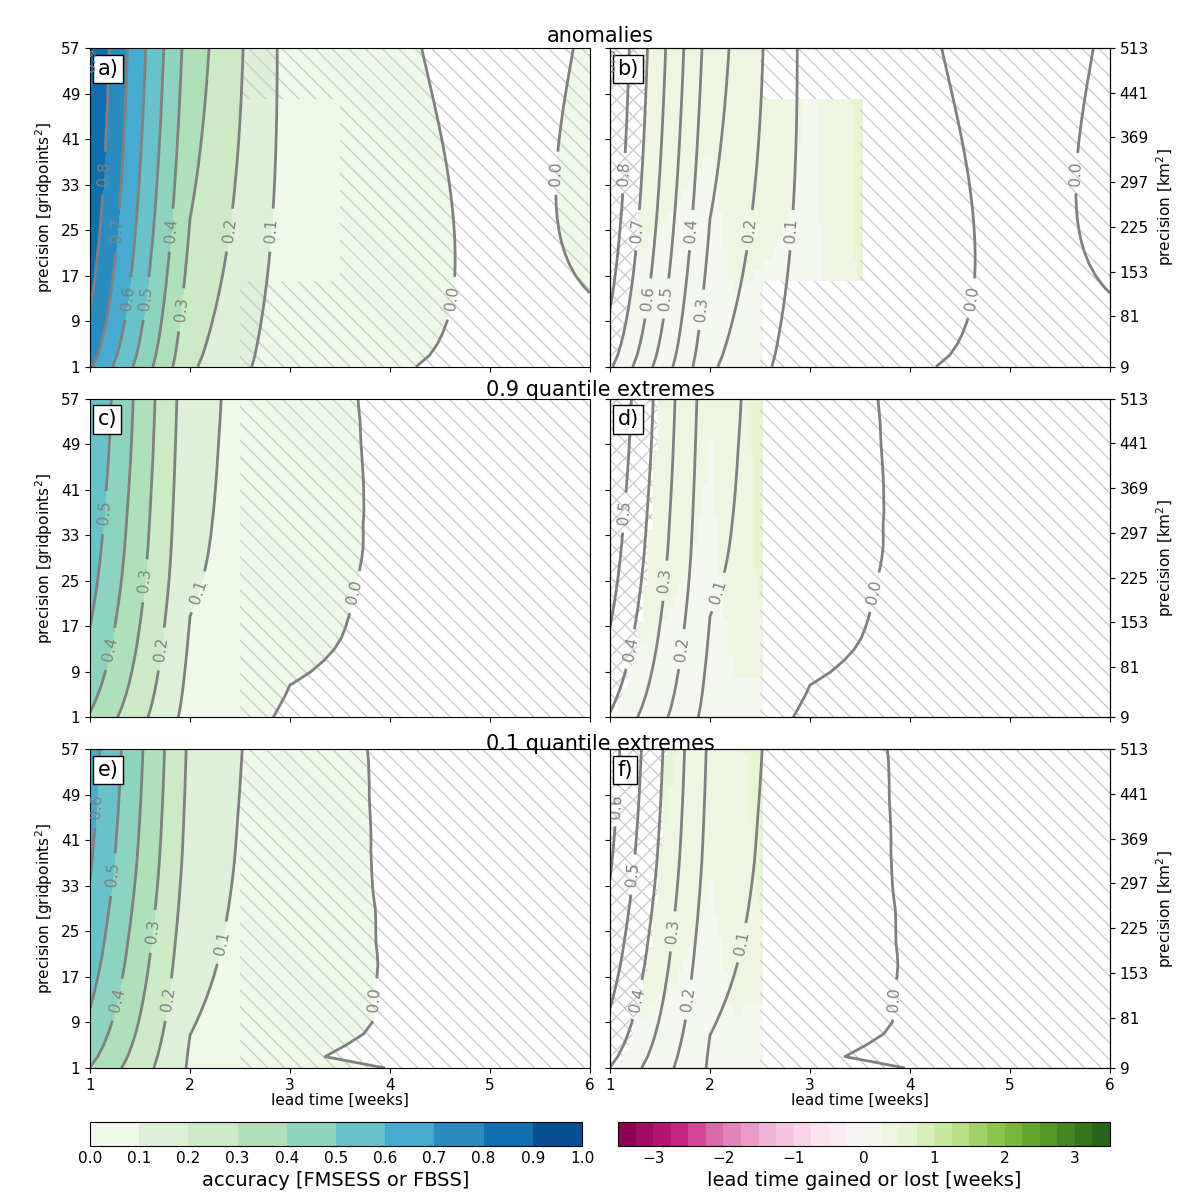
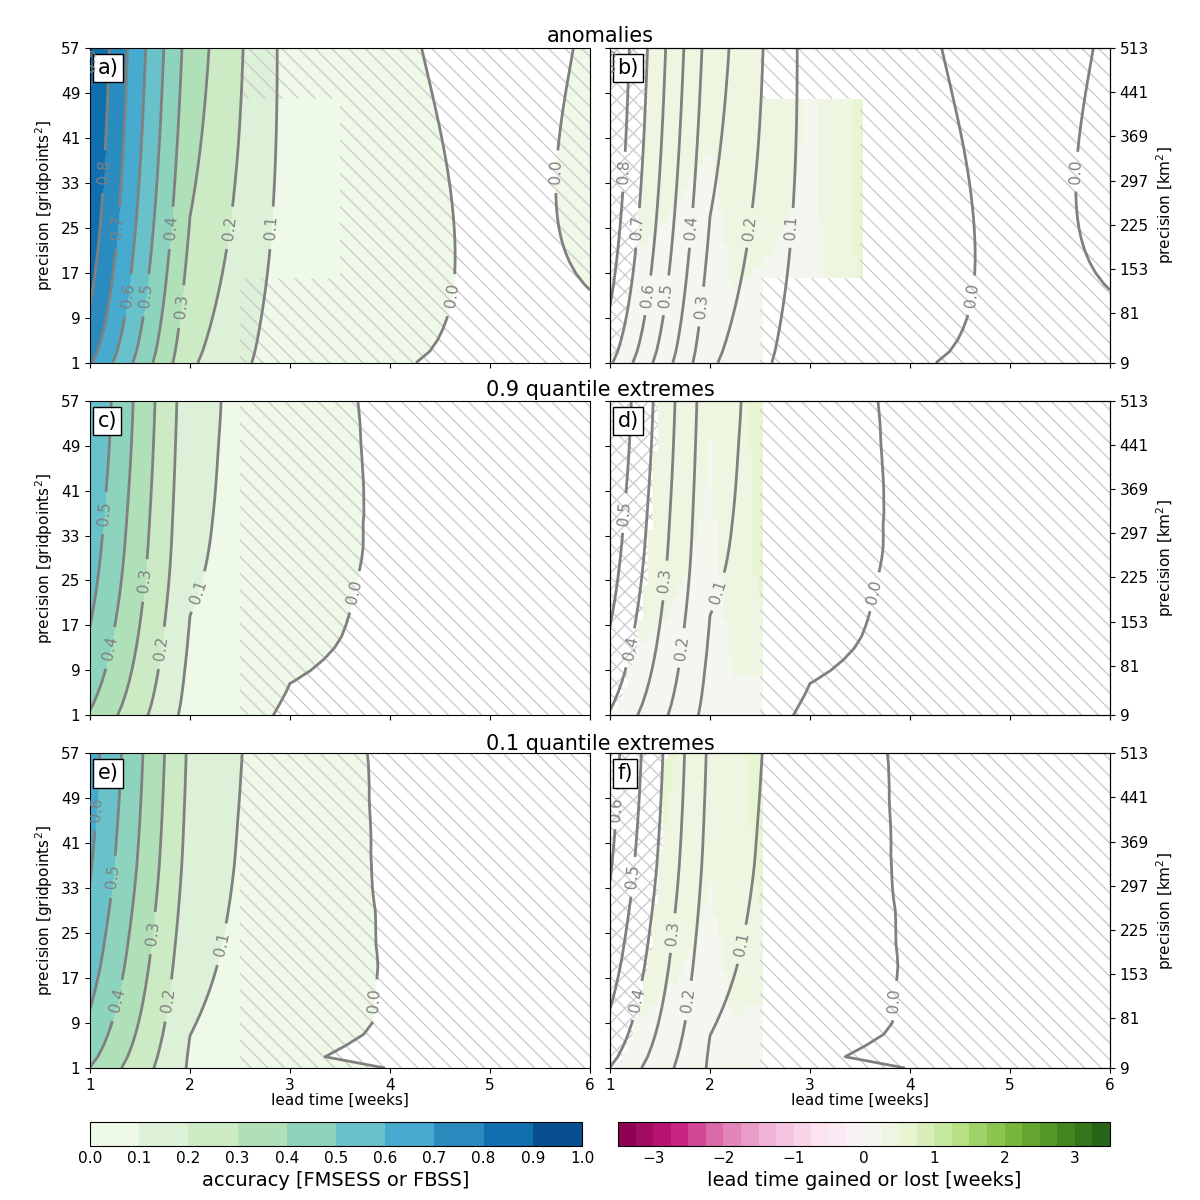
update

diff --git a/code/plot/plot-fig-03.py b/code/plot/plot-fig-03.py
@@ -103,7 +103,7 @@ setup_subplot(3, ax[3], ds2, 'd)', clevs_score,clevs_ltg, cmap_score, cmap_ltg, 
 
 p2 = setup_subplot(5, ax[5], ds3, 'f)', clevs_score,clevs_ltg, cmap_score, cmap_ltg, fontsize)
 
-fig.subplots_adjust(right=0.925, left=0.075,top=0.96,hspace=0.1,wspace=0.04)
+fig.subplots_adjust(right=0.925, left=0.075,top=0.96,hspace=0.12,wspace=0.04)
 
 cb1_ax = fig.add_axes([0.075, 0.045, 0.41, 0.02])
 cb1    = fig.colorbar(p1, cax=cb1_ax, orientation='horizontal',ticks=clevs_score, pad=0.025)
